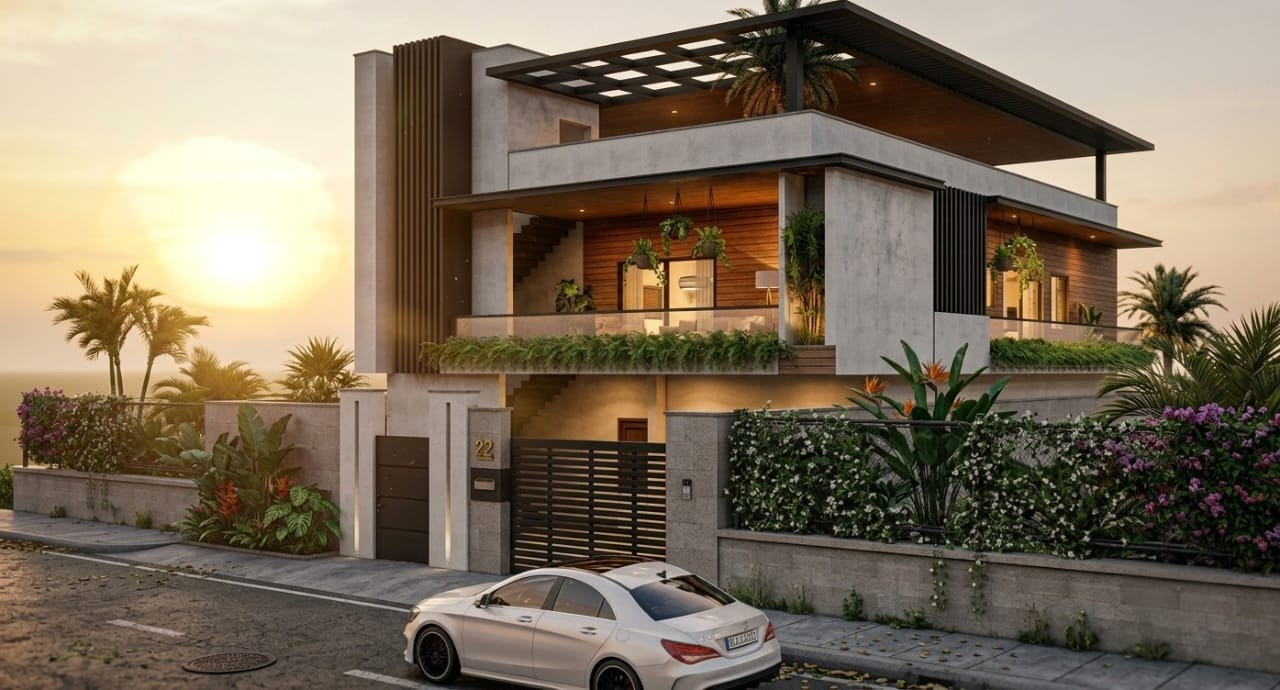
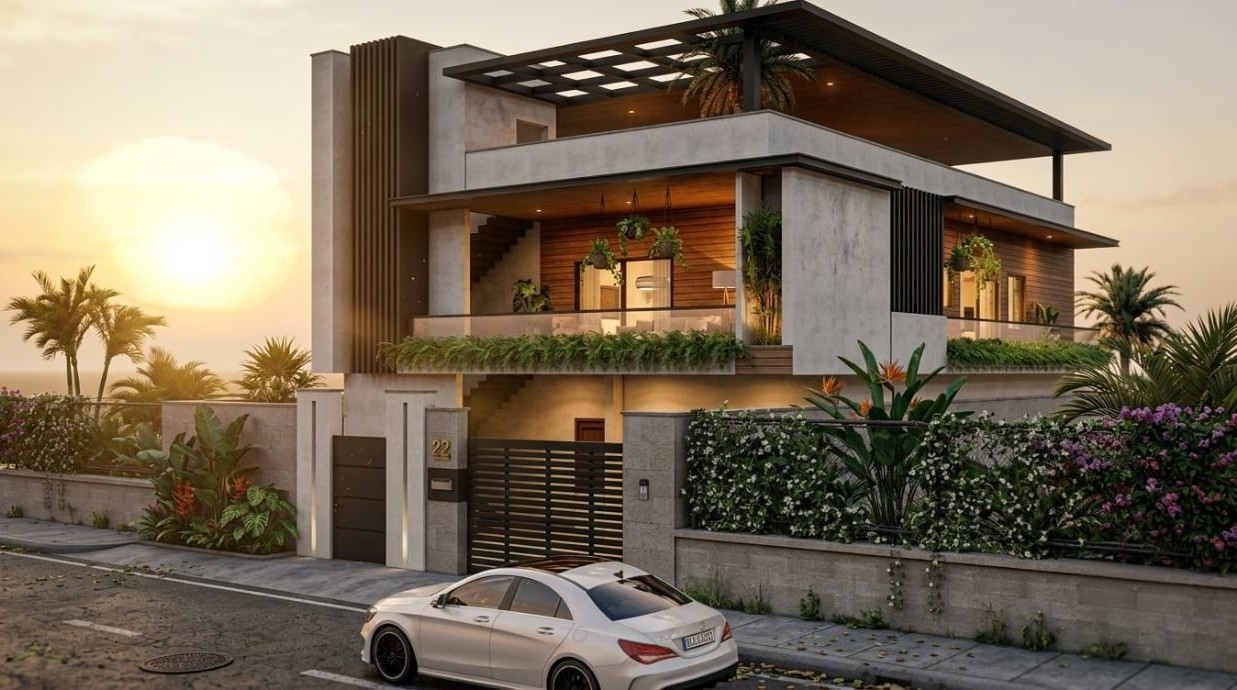
Add Instagram link

diff --git a/index.html b/index.html
@@ -171,8 +171,8 @@
       <div><svg class="ico"><use href="#i-mail"/></svg><a href="mailto:kbarchitectinteriors@gmail.com">kbarchitectinteriors@gmail.com</a></div>
       <div><svg class="ico"><use href="#i-chat"/></svg><a href="tel:+918778864301">+91 8778864301</a></div>
     </div>
-    <div class="social" aria-hidden="true">
-      <span><svg class="ico"><use href="#i-insta"/></svg></span>
+    <div class="social">
+      <a href="https://www.instagram.com/kb_architect_interiors_?vrfl=aWFudmlodTNudWZi/" target="_blank" rel="noopener" aria-label="Instagram"><span><svg class="ico"><use href="#i-insta"/></svg></span></a>
       <span><svg class="ico"><use href="#i-yt"/></svg></span>
     </div>
   </section>
